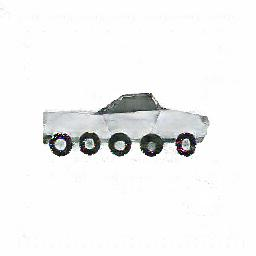
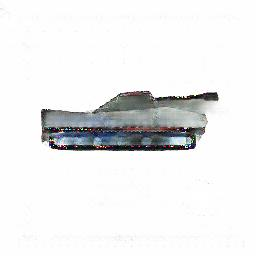
Article writing

Changed region(s): [[0.1562, 0.3438, 0.875, 0.625]]

diff --git a/README.md b/README.md
@@ -6,7 +6,7 @@
 
 `bin`  
 `--download_car_dataset.sh # пример загрузки подготовленного датасета с автомобилями`  
-`--download_best_generator.sh # пример загрузки обученного генератора для датасета с автомобилями`
+`--download_best_generator.sh # пример загрузки обученного генератора для датасета с автомобилями`  
 `scripts`    
 `--prepare_car_dataset.py  # преобразование датасета с изображениями под задачу pix2pix`  
 `src`  
@@ -39,7 +39,7 @@
 
 Набор данных из [соревнования по сегментации автомобилей на изображении](https://www.kaggle.com/c/carvana-image-masking-challenge/data). В нашем распоряжении фотографии автомобилей под разными углами (каждому автомобилю соответствует 16 фотографий под разными углами) и сегментационные маски к ним.
 
-<img src="article/carvana.jpg" width="25%" /><img src="article/carvana_mask.gif" width="25%" />
+<img src="article/carvana.jpg" width="30%" /><img src="article/carvana_mask.gif" width="30%" />
 
 Для того, чтобы подготовить этот набор данных для задачи pix2pix необходимо:
 
@@ -71,7 +71,7 @@
 
 <img src="article/edges2shoes_val.png" />
 
-Как видим, получили сопоставимое качество с результатами, полученными в статье. Данные результаты получены после 13 эпохи, при размере батча (batch size) равного 4 и скорости обучения (learning rate) 1e-4 для генератора и 5e-5 для дискриминатора.  
+Как видим, получили сопоставимое качество с результатами, полученными в статье. Данные результаты получены после 11 эпохи, при размере батча (batch size) равного 4 и скорости обучения (learning rate) 1e-4 для генератора и 5e-5 для дискриминатора.  
 
 #### Carvana
 
@@ -81,20 +81,26 @@
 
 Данные результаты получены при следующих гиперпараметрах:
 
-- Количество эпох: 33
+- Количество эпох: 39
 - Размер батча: 4
 - Скорость обучения генератора: 1e-4
 - Скорость обучения дискриминатора: 5e-5
 
-Далее создадим несколько простых скетчей и сгенерируем из них изображения. Код генерации из набросков приведен в файле `generate.py`.
+Далее создадим несколько простых скетчей и сгенерируем из них изображения. Код генерации изображений из набросков приведен в файле `generate.py`.
 
 <img src="article/doodle_001.png" /><img src="article/image_from_doodle_001.png" />
 
 <img src="article/doodle_002.png" /><img src="article/image_from_doodle_002.png" />
 
+С простыми скетчами генератор справляется плохо. Давайте приложим больше усилий при рисовании скетча.
+
 <img src="article/doodle_003.png" /><img src="article/image_from_doodle_003.png" />
 
+Намного лучше. Что будет если добавить еще колесо? (в обучающем датасете были только 4-х колесные автомобили)
+
 <img src="article/doodle_004.png" /><img src="article/image_from_doodle_004.png" />
+
+На самом деле мы рисовали танк:
 
 <img src="article/doodle_005.png" /><img src="article/image_from_doodle_005.png" />
 
@@ -103,3 +109,5 @@
 В работе реализован алгоритм для решения задачи преобразования изображения краев объекта в цветное изображение. Как было показано выше, алгоритм хорошо справляется, как с датасетом авторов статьи, так и с датасетом, который мы выбрали. 
 
 К сожалению, генератору, обученному на данном датасете хуже удается генерировать изображения из набросков, созданных вручную. Скорей всего, это связано с тем, что в обучающем датасете на изображениях краев автомобиля много мелких деталей. 
+
+Кроме того, алгоритм вышел за границы объекта при генерации изображения из первых двух скетчей, что было неожиданным. Скорей всего, это связано с наличием в исходном датасете белых автомобилей на белом фоне, которые были не точно преобразованы в изображение краев объекта.
